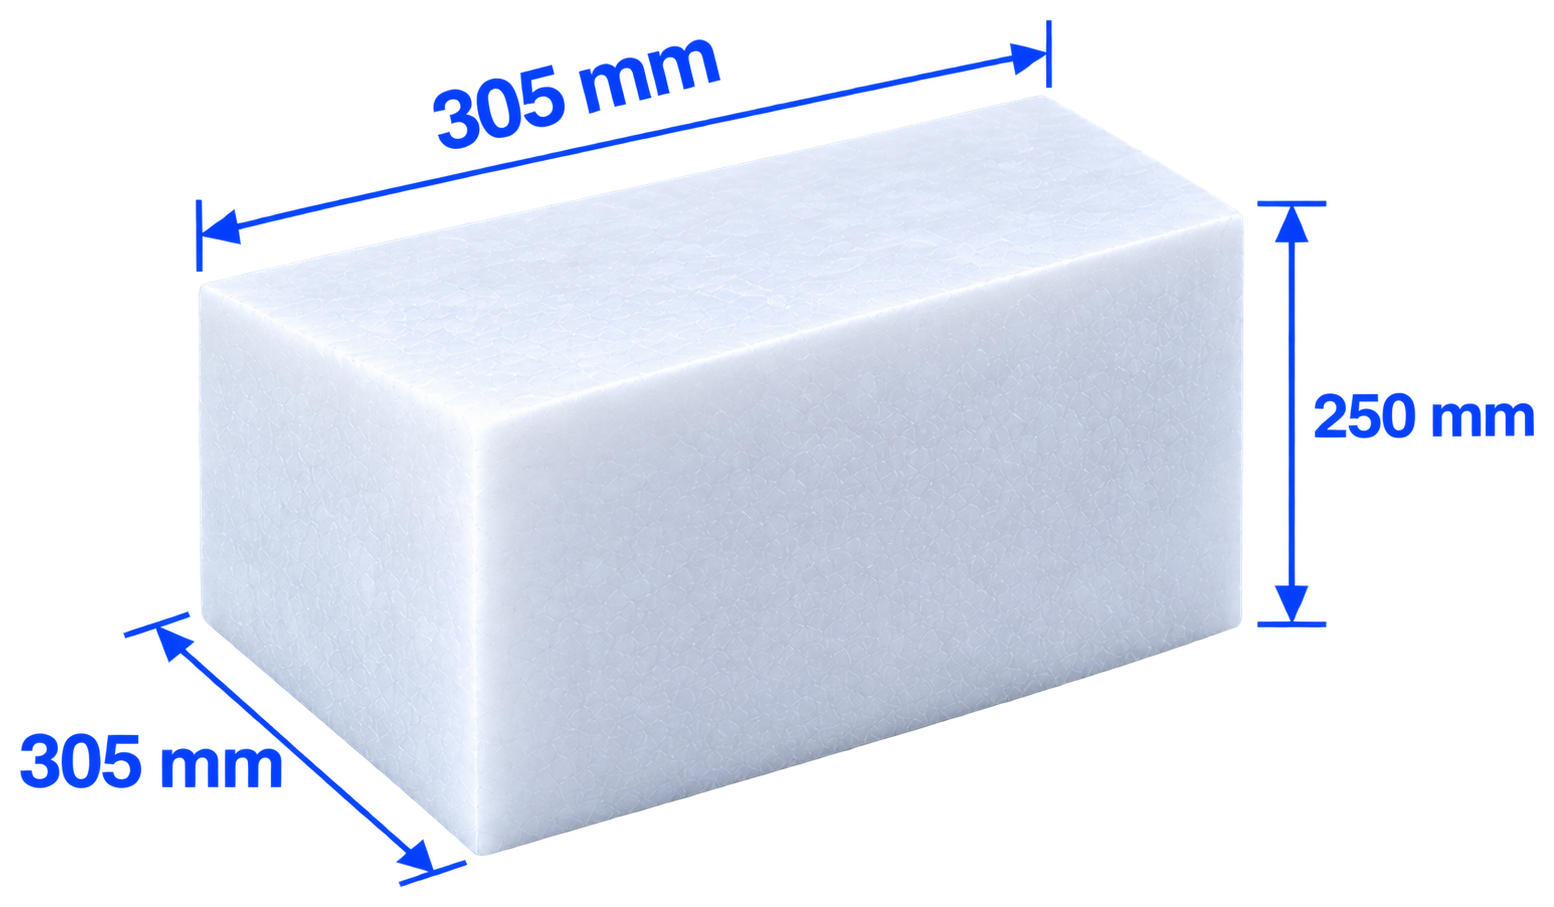
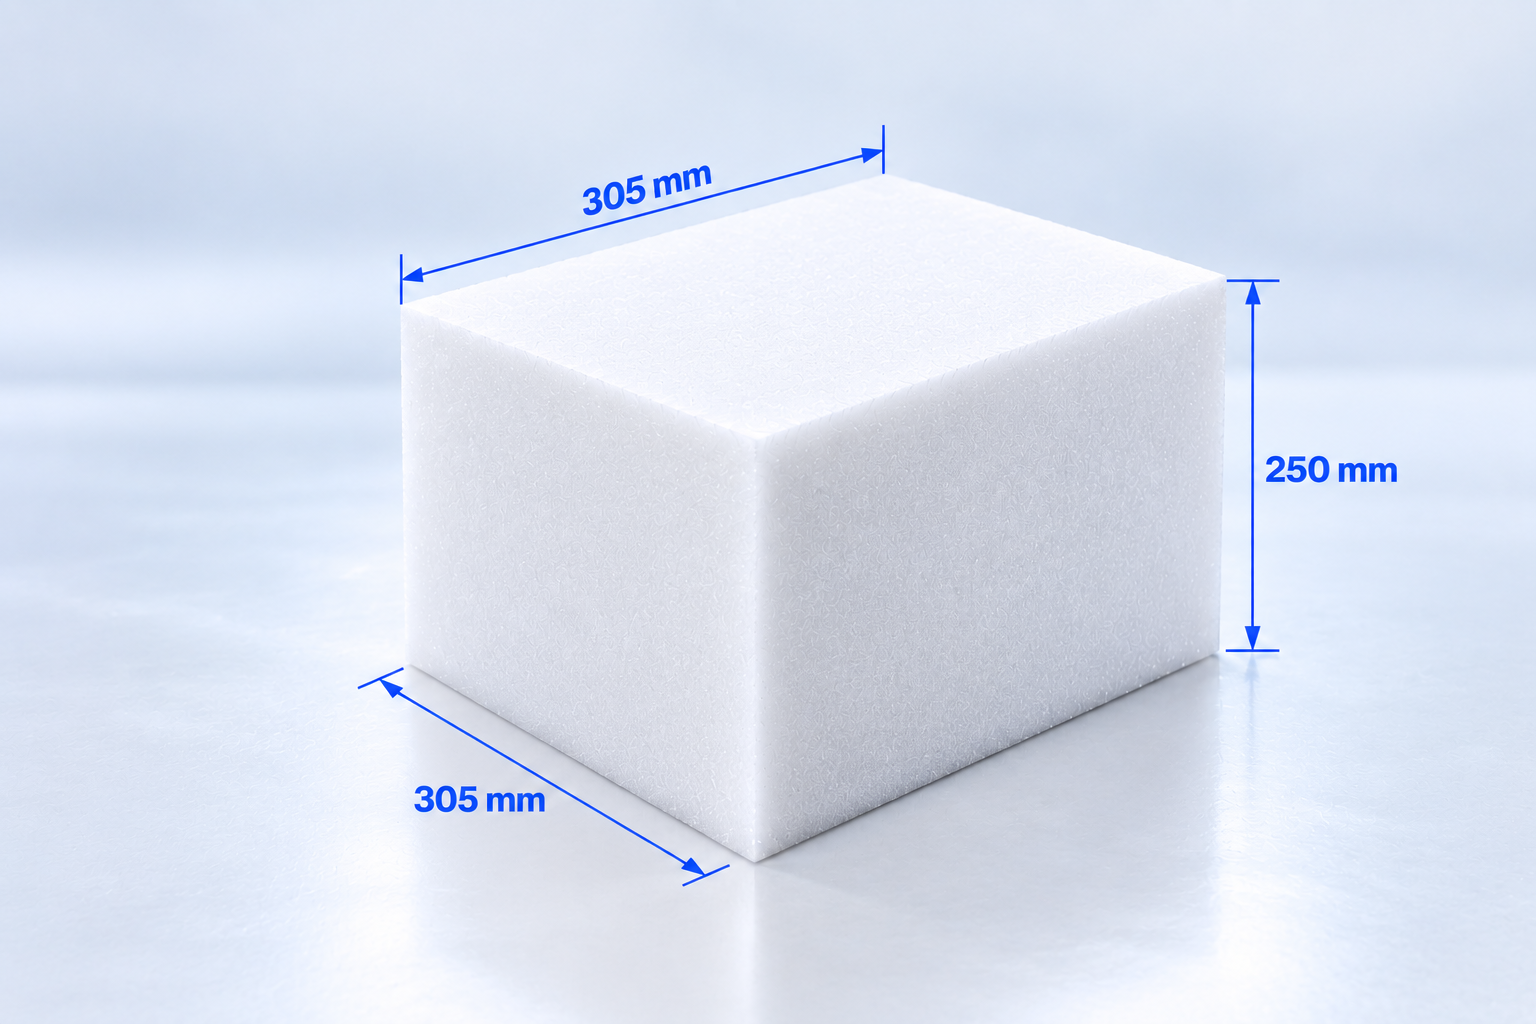
드라이아이스 블록 성형 규격 도면 새 이미지로 교체(305×305×250, 카드 cover 채움). dim-block ?v=20260911

diff --git a/products-ice.html b/products-ice.html
@@ -365,7 +365,7 @@
                   <div class="icespec-figs__photo icespec-figs__photo--contain"><img src="assets/images/site/ice-block-product.jpg?v=20260831" alt="블록 드라이아이스" loading="lazy"></div>
                   <figure class="icespec-figs__dim icespec-figs__dim--titled">
                     <figcaption class="icespec-figs__dimtitle">블록 성형 규격 <em>(제품 단품 크기)</em></figcaption>
-                    <img src="assets/images/site/icespec/dim-block.png?v=20260910e" alt="블록 성형 규격 305×305×250mm" loading="lazy">
+                    <img src="assets/images/site/icespec/dim-block.png?v=20260911" alt="블록 성형 규격 305×305×250mm" loading="lazy">
                     <span class="icespec-figs__dimnote">※ 성형 특성상 약간의 오차가 있을 수 있습니다.</span>
                   </figure>
                 </div>
